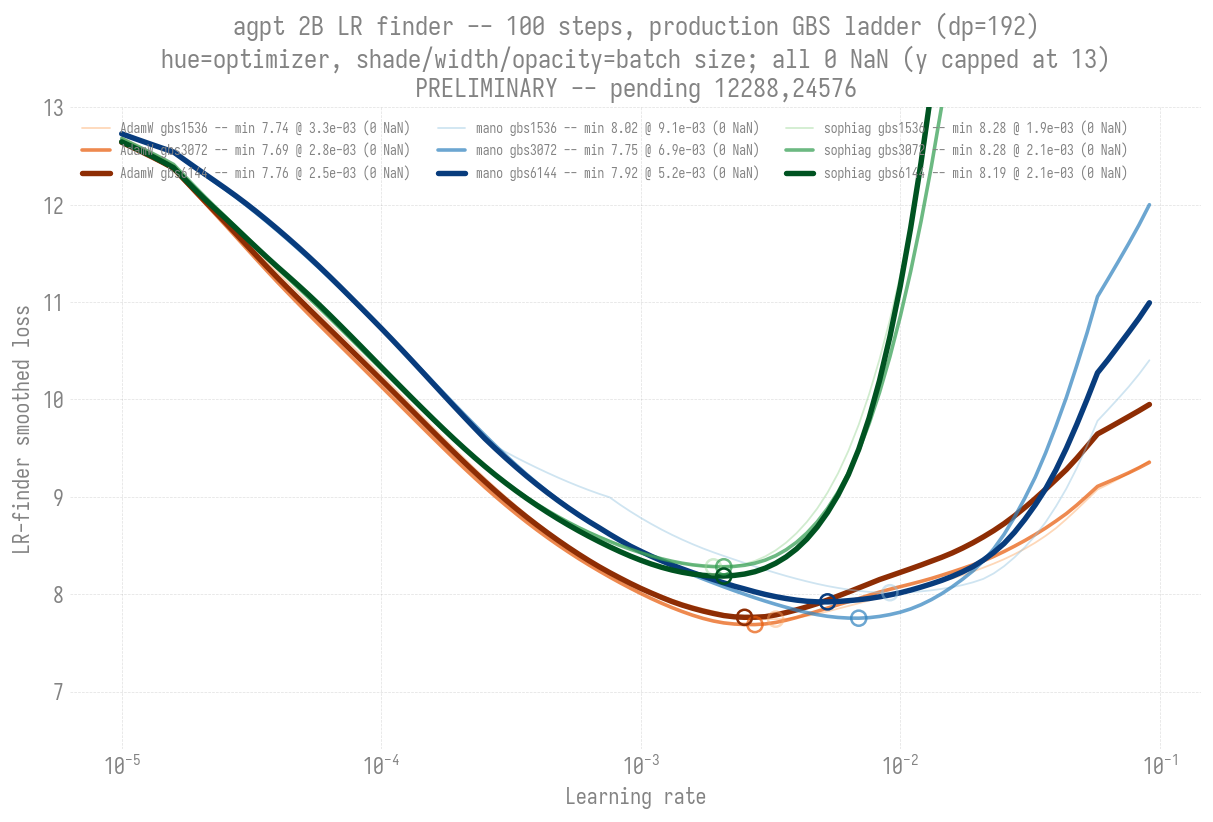
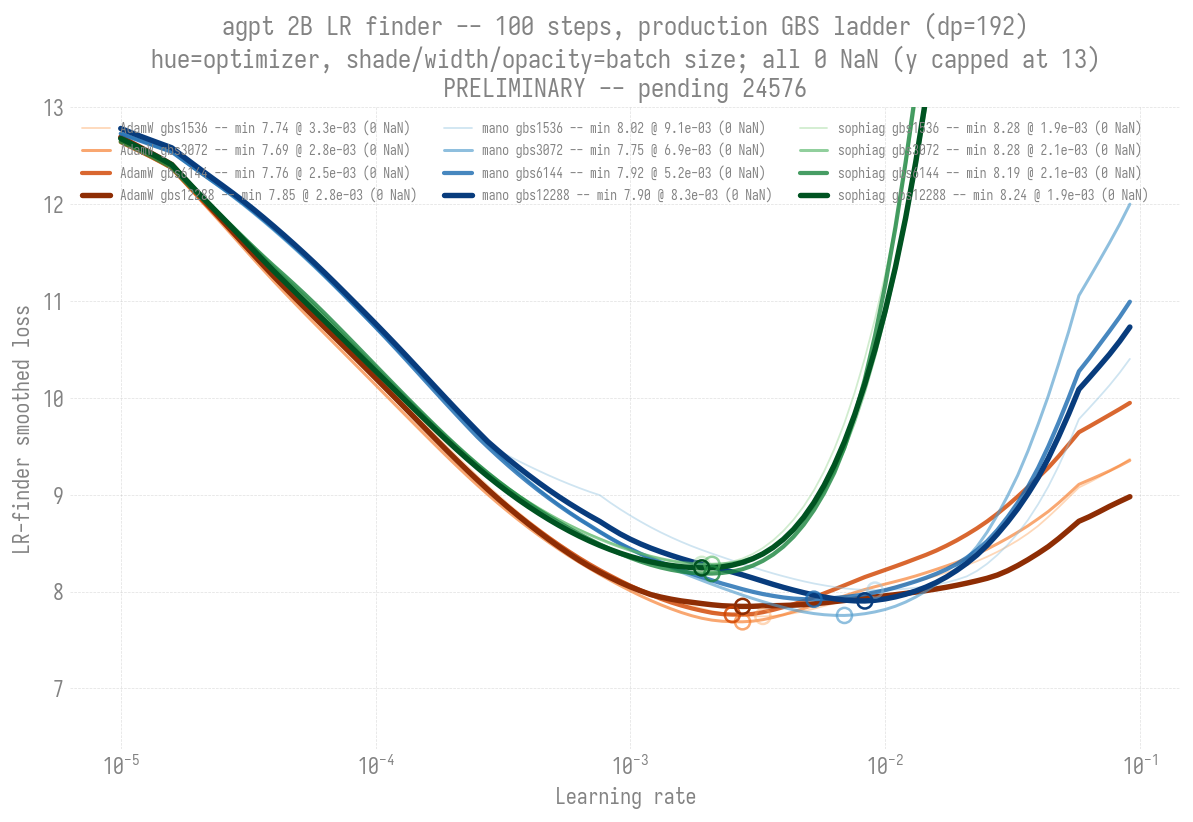
lr-finder(agpt/2b): fill 12288 tier in 100-step production ladder (12/15)
12288 complete for all three optimizers (0 NaN): adamw 2.8e-3/7.85,
mano 8.3e-3/7.90, sophiag 1.9e-3/8.24. Figures + table updated; only the
24576 tier remains. Confirms batch-independence holds at 4x production.

diff --git a/torchtitan/experiments/ezpz/docs/experiments/lr-finder/agpt/2b/README.md b/torchtitan/experiments/ezpz/docs/experiments/lr-finder/agpt/2b/README.md
@@ -140,11 +140,11 @@ classic finder length so the curves are smooth and the minima are deep. Run at
 comparable). Jobs 12469854-868, isolated dumps
 `outputs/lrfind-2b-100step-prod/gbs<N>/`.
 
-> **Status (2026-06-29): PRELIMINARY -- 9/15 jobs done.** The 1536 / 3072 /
-> **6144 (production)** tiers are complete for all three optimizers (0 NaN
-> everywhere); 12288 + 24576 are still computing (the long poles). Figures
-> below are regenerated as jobs land, so they fill in automatically. The
-> headline production point (GBS=6144) is already in.
+> **Status (2026-06-29): PRELIMINARY -- 12/15 jobs done.** The 1536 / 3072 /
+> **6144 (production)** / 12288 tiers are complete for all three optimizers
+> (0 NaN everywhere); only the 24576 tier is still computing (the long pole,
+> ~3h). Figures below are regenerated as jobs land, so they fill in
+> automatically. The headline production point (GBS=6144) is already in.
 
 Everything on one axis, hue = optimizer and batch size encoded three ways at
 once (shade light->dark, width thin->thick, opacity faint->opaque, all
@@ -163,7 +163,7 @@ Completed points so far (smoothed-min LR / loss, all 0 NaN):
 | 1536 | 3.3e-3 / 7.74 | 9.1e-3 / 8.02 | 1.9e-3 / 8.28 |
 | 3072 | 2.8e-3 / 7.69 | 6.9e-3 / 7.75 | 2.1e-3 / 8.28 |
 | **6144** (prod) | 2.5e-3 / 7.76 | 5.2e-3 / 7.92 | 2.1e-3 / 8.19 |
-| 12288 | _pending_ | _pending_ | _pending_ |
+| 12288 | 2.8e-3 / 7.85 | 8.3e-3 / 7.90 | 1.9e-3 / 8.24 |
 | 24576 | _pending_ | _pending_ | _pending_ |
 
 Consistent with everything above: **0 NaN at every batch** (2B never cliffs,
